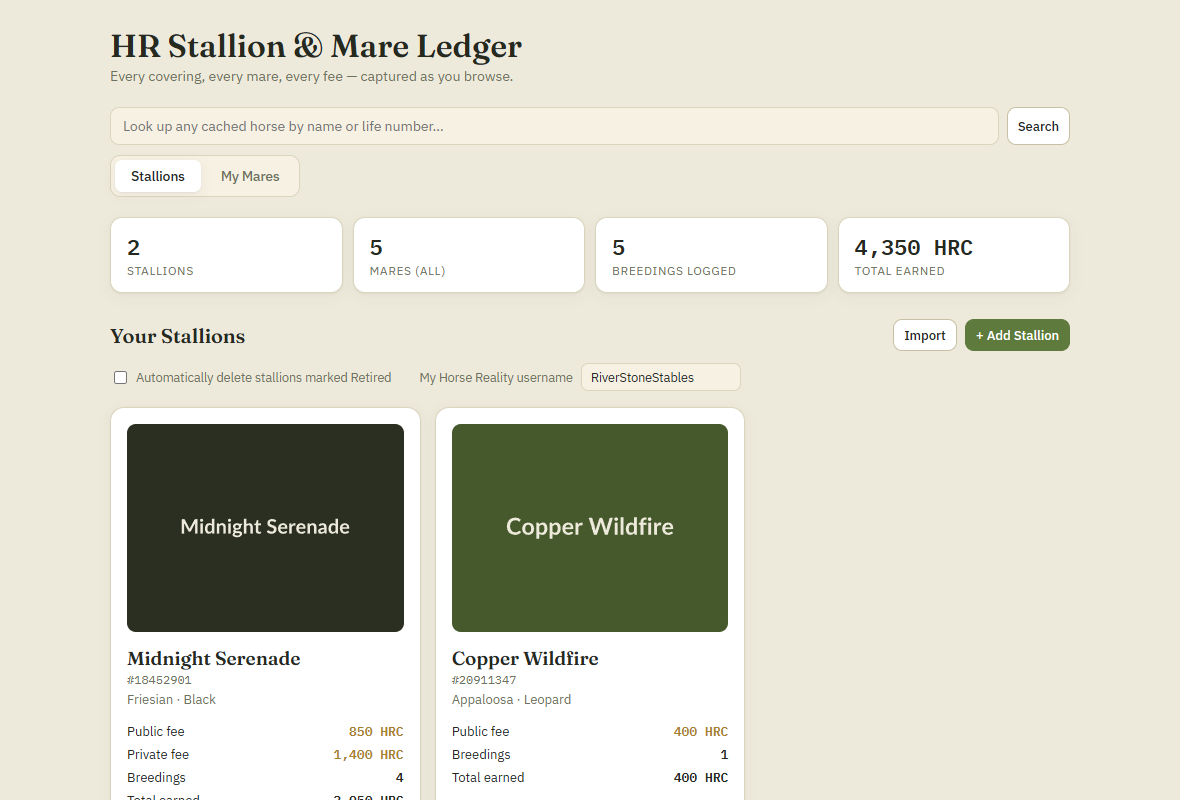
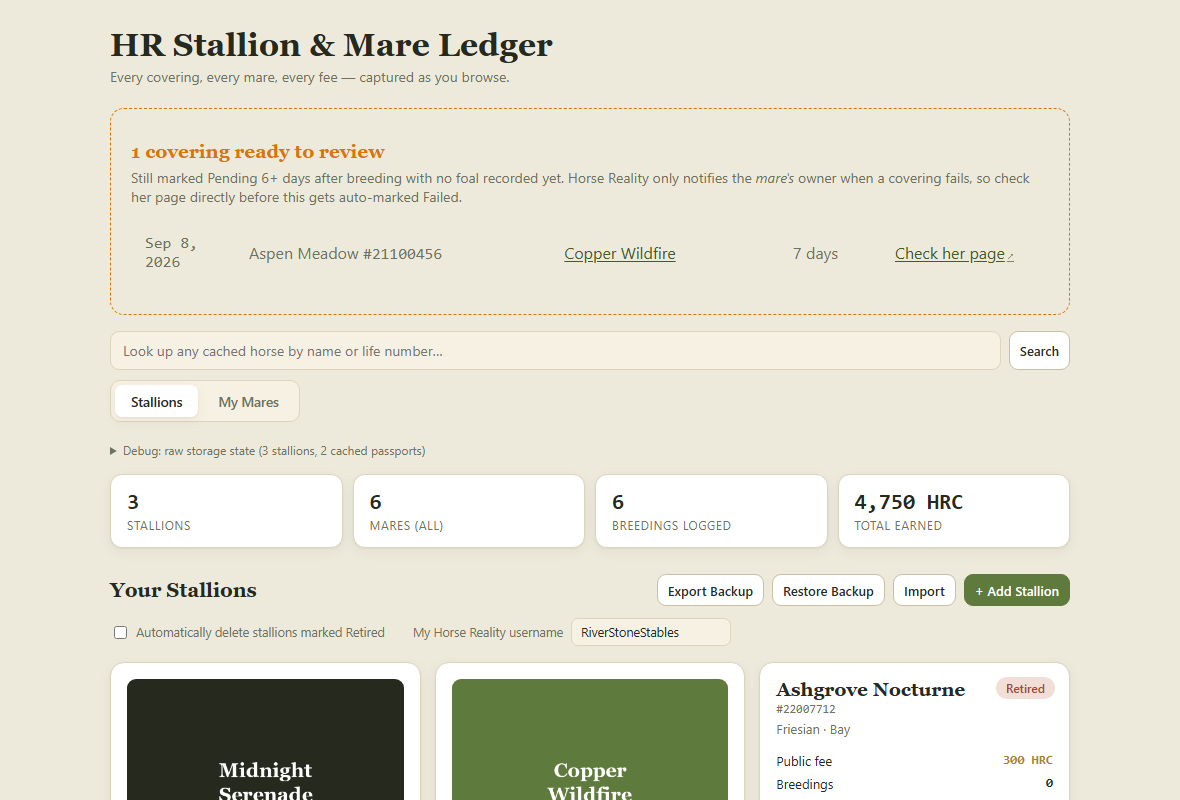
Refresh the illustrated manual with current screenshots
The dashboard screenshots predated Export/Restore Backup and the API
warning banner, so they no longer matched the real UI. Regenerated all
six against a consistent fictional dataset, and added two new sections
(bulk JSON import, reviewing coverings before auto-fail) with screenshots
for the features the manual hadn't covered yet.

diff --git a/docs/MANUAL.md b/docs/MANUAL.md
@@ -13,12 +13,14 @@ A visual walkthrough of installing and using the extension. For a quick technica
 5. [Looking up any horse](#looking-up-any-horse)
 6. [A stallion's detail page](#a-stallions-detail-page)
 7. [Adding a stallion by hand](#adding-a-stallion-by-hand)
-8. [My Mares](#my-mares)
-9. [A mare's detail page & pregnancy tracking](#a-mares-detail-page--pregnancy-tracking)
-10. [Understanding breeding statuses](#understanding-breeding-statuses)
-11. [Updating](#updating)
-12. [Privacy](#privacy)
-13. [Troubleshooting](#troubleshooting)
+8. [Bulk-importing breeding records](#bulk-importing-breeding-records)
+9. [My Mares](#my-mares)
+10. [A mare's detail page & pregnancy tracking](#a-mares-detail-page--pregnancy-tracking)
+11. [Understanding breeding statuses](#understanding-breeding-statuses)
+12. [Reviewing coverings before they auto-fail](#reviewing-coverings-before-they-auto-fail)
+13. [Updating](#updating)
+14. [Privacy](#privacy)
+15. [Troubleshooting](#troubleshooting)
 
 ## Installing
 
@@ -82,6 +84,14 @@ Anything the auto-capture misses can be entered manually — useful for backfill
 
 ![The Add Stallion form](images/04-add-stallion-form.png)
 
+## Bulk-importing breeding records
+
+Both a stallion's detail page and the Stallions tab have an **Import** button, for pasting in a JSON array of breeding records all at once — handy for backfilling history from before you installed the extension, or migrating from a spreadsheet.
+
+![The bulk JSON import form on a stallion's detail page](images/08-import-json.png)
+
+A record naming its own stud (`stallionName` or `stallionLifeNumber`) routes to that stallion automatically — but only if he's already in your ledger; records for a stud that isn't are skipped, and you're told which ones so you can add him first. Anything that doesn't name a stud goes to whichever stallion's page you opened Import from. A record that matches an existing one (same mare, date, foal, and price) updates it in place instead of duplicating.
+
 ## My Mares
 
 Switch to the **My Mares** tab to see every mare *you* own — scoped by the username you set in first-time setup. A mare appears here the moment you view her page, even before she's been bred; once she has breeding history, it shows too.
@@ -108,6 +118,14 @@ While she's pregnant, you'll see her due date and the covering sire (linked), pu
 **A note on failures:** Horse Reality only sends the "covering has failed" notification to the *mare's* owner, never the stud's — so if you're a stud owner, you'd normally never find out a customer's mare didn't take. To cover this gap, the extension automatically marks a "Pending" record **Failed** once it's more than 6 days old with no matching foal for that mare — Horse Reality resolves a covering within about that window, so a longer silence almost always means it didn't take.
 
 You can also change any record's status by hand at any time using the dropdown in its row.
+
+## Reviewing coverings before they auto-fail
+
+Since that 6-day auto-fail happens quietly the next time you're browsing Horse Reality, it's easy to miss — and you'd have no way to double-check it before it happens. So as soon as a "Pending" covering crosses the 6-day mark, it's surfaced at the top of both the Stallions and My Mares tabs, and the toolbar icon badges with a count — even if you haven't opened Horse Reality that day.
+
+![The "Needs Review" panel at the top of the dashboard](images/07-needs-review.png)
+
+Each row links straight to **her page on Horse Reality** — since the failure notification went to her, not you, that's the only place to actually check what happened. From there you can either leave it for the automatic sweep to mark Failed, or jump to the stallion's page and set the status yourself once you know.
 
 ## Updating
 

diff --git a/README.md b/README.md
@@ -22,6 +22,7 @@ Click the toolbar icon to open the full dashboard — a proper tab, not a crampe
 
 - **Stallions** — roster, public/private fees per currency (HRC/DP/FT/WT), earnings, Sold/Retired status
 - **My Mares** — scoped to mares *you* own (set your username once in Settings so it can tell your mares apart from customers')
+- **Needs Review** — Pending coverings 6+ days old with no foal yet, badged on the toolbar icon and linked straight to the mare's own page, since Horse Reality only notifies *her* owner when a covering fails
 - Manual add/edit for anything the auto-capture misses, plus a JSON import box for backfilling history
 - **Export Backup / Restore Backup** — save your entire ledger as a JSON file, and restore it later on this or another machine
 
